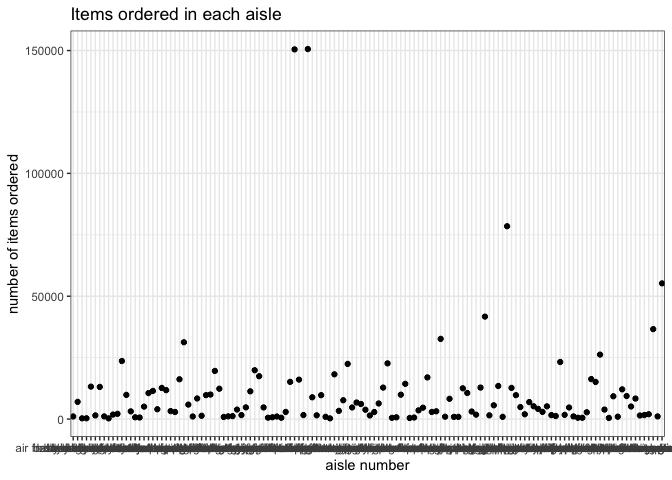
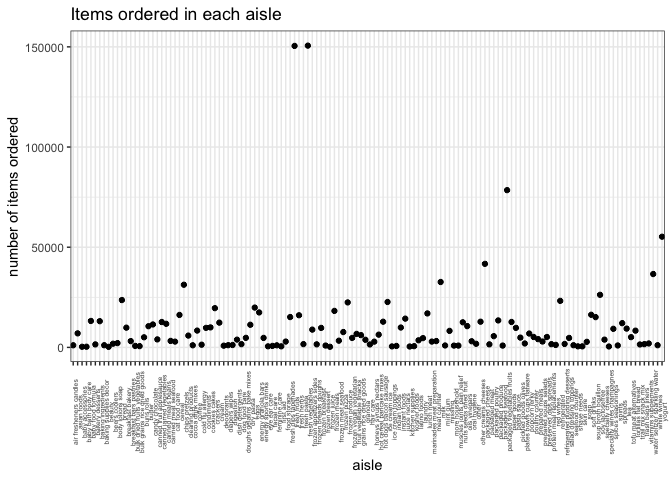
I added descriptions of all my plots and what I see in the results.

diff --git a/p8105_hw3_ak4123.md b/p8105_hw3_ak4123.md
@@ -65,7 +65,10 @@ brfss_data %>%
   guides(color = guide_legend(nrow = 6))
 ```
 
-![](p8105_hw3_ak4123_files/figure-markdown_github/unnamed-chunk-1-1.png) \#\#Part C: Here, I make a table showing, for the years 2002, 2006, and 2010, the mean and standard deviation of the proportion of “Excellent” responses across locations in NY State.
+![](p8105_hw3_ak4123_files/figure-markdown_github/unnamed-chunk-1-1.png) As we can see from this line plot, most states stay fairly the same in terms of the number of observations, but there are a few that have some peaks. Because there are so many states, it is hard to really distinguish the colors from one another, but there is one state that appears to have a large increase in 2007 and again in 2010. Most of the states remain under 10 observations.
+
+Part C: Here, I make a table showing, for the years 2002, 2006, and 2010, the mean and standard deviation of the proportion of “Excellent” responses across locations in NY State.
+----------------------------------------------------------------------------------------------------------------------------------------------------------------------------------
 
 ``` r
 brfss_data %>%
@@ -78,11 +81,12 @@ brfss_data %>%
   knitr::kable()
 ```
 
-|  year|  mean\_proportion\_excellent|  sd\_proportion\_excellent|
-|-----:|----------------------------:|--------------------------:|
-|  2002|                     24.04000|                   4.486424|
-|  2006|                     22.53333|                   4.000833|
-|  2010|                     22.70000|                   3.567212|
+|     year|   mean\_proportion\_excellent|                                                                                           sd\_proportion\_excellent|
+|--------:|-----------------------------:|-------------------------------------------------------------------------------------------------------------------:|
+|     2002|                      24.04000|                                                                                                            4.486424|
+|     2006|                      22.53333|                                                                                                            4.000833|
+|     2010|                      22.70000|                                                                                                            3.567212|
+|  From th|  is table, we can see that th|  e mean decreases from 2002 to 2006, and remains the same to 2010. The standard deviations remain roughly the same.|
 
 Part D: For each year and state, I compute the average proportion in each response category (taking the average across locations in a state). Then, I make a five-panel plot that shows, for each response category separately, the distribution of these state-level averages over time.
 -----------------------------------------------------------------------------------------------------------------------------------------------------------------------------------------------------------------------------------------------------------------------------------------
@@ -106,7 +110,13 @@ brfss_data %>%
 
     ## Warning: Removed 21 rows containing non-finite values (stat_boxplot).
 
-![](p8105_hw3_ak4123_files/figure-markdown_github/unnamed-chunk-3-1.png) \#Question 2 \#\#Data Cleaning of the instacart dataset.
+![](p8105_hw3_ak4123_files/figure-markdown_github/unnamed-chunk-3-1.png) From these box plots, we can see that over time, the mean proportion of responses remain roughly the same. There is a higher proportion for very good responses and good responses, followed by excellent propotions. There is very few fair responses and even less poor responses. Also, the poor responses have very little variation, with many outliers compared to the other response groups.
+
+Question 2
+==========
+
+Data Cleaning of the instacart dataset.
+---------------------------------------
 
 ``` r
 library(p8105.datasets)
@@ -124,7 +134,7 @@ The dimensions of this dataset are (1384617, 15). This means there are 1384617 o
 "department\_id" "aisle"
 "department"
 
-An example of an observation would be for the user id 112108, a product they ordered was Bulgarian Yogurt. This product comes from the dairy eggs.
+An example of an observation would be for the user id 112108, a product they ordered was Bulgarian Yogurt. This product comes from the dairy eggs department.
 
 Part A
 ------
@@ -132,23 +142,18 @@ Part A
 ``` r
 instacart %>% 
 group_by(aisle) %>% 
-  count(order_id) %>% 
+  count(aisle_id) %>% 
 arrange(desc(n)) %>% 
-  head(7) %>% 
+  head(2) %>% 
   knitr::kable()
 ```
 
-| aisle               |  order\_id|    n|
-|:--------------------|----------:|----:|
-| baby food formula   |    2188545|   28|
-| energy granola bars |    1385776|   28|
-| tea                 |    2445873|   27|
-| yogurt              |    2606705|   26|
-| cat food care       |    3363902|   24|
-| energy granola bars |    2397010|   24|
-| baby food formula   |    2070470|   23|
+| aisle            |  aisle\_id|       n|
+|:-----------------|----------:|-------:|
+| fresh vegetables |         83|  150609|
+| fresh fruits     |         24|  150473|
 
-There are 134 aisles. The aisles with the most orders are baby food formula and energy granola bars, each with 28 orders.
+There are 134 aisles. The aisles with the most orders the fresh vegtables and fresh fruits aisles, each with over 150,000 orders.
 
 Part B: Here, I make a plot that shows the number of items ordered in each aisle.
 ---------------------------------------------------------------------------------
@@ -156,17 +161,22 @@ Part B: Here, I make a plot that shows the number of items ordered in each aisle
 ``` r
 instacart %>% 
   group_by(aisle) %>% 
-  summarize(amount_ordered = n()) %>% 
-  ggplot(aes(x = aisle, y = amount_ordered)) + 
+  summarize(ordered_amount = n()) %>% 
+  ggplot(aes(x = aisle, y = ordered_amount)) + 
   geom_point() +
   labs(
      title = "Items ordered in each aisle",
-     x = "aisle number",
+     x = "aisle",
      y = "number of items ordered"
-    ) + theme_bw()
+    ) +
+    theme_bw() +
+    theme(axis.text.x = element_text(angle = 90, size = 5))
 ```
 
-![](p8105_hw3_ak4123_files/figure-markdown_github/question%202%20plots-1.png) \#\#Part C: I make a table showing the most popular item in each of the aisles: “baking ingredients”, “dog food care”, and “packaged vegetables fruits”.
+![](p8105_hw3_ak4123_files/figure-markdown_github/question%202%20plots-1.png) From this plot, we see the number of items ordered from each aisle. There are 2 major outliers in the 150,000 count, which matches our information from the table above, as this is the fresh vegetables and fresh fruits aisles.
+
+Part C: I make a table showing the most popular item in each of the aisles: “baking ingredients”, “dog food care”, and “packaged vegetables fruits”.
+----------------------------------------------------------------------------------------------------------------------------------------------------
 
 ``` r
 instacart %>% 
@@ -178,16 +188,18 @@ arrange(desc(most_ordered)) %>%
 group_by(aisle) %>% 
   top_n( n = 1, wt = most_ordered) %>% 
   select(aisle, product_name, most_ordered) %>% 
-  rename(top_product_name = product_name) %>% 
+  rename(top_product_name = product_name) %>%
+  rename(number_of_orders = most_ordered) %>% 
   arrange(aisle) %>% 
   knitr::kable()
 ```
 
-| aisle                      | top\_product\_name                            |  most\_ordered|
-|:---------------------------|:----------------------------------------------|--------------:|
-| baking ingredients         | Light Brown Sugar                             |            499|
-| dog food care              | Snack Sticks Chicken & Rice Recipe Dog Treats |             30|
-| packaged vegetables fruits | Organic Baby Spinach                          |           9784|
+| aisle                         | top\_product\_name                               |                                                                                                                                                                                                                                                                                 number\_of\_orders|
+|:------------------------------|:-------------------------------------------------|--------------------------------------------------------------------------------------------------------------------------------------------------------------------------------------------------------------------------------------------------------------------------------------------------:|
+| baking ingredients            | Light Brown Sugar                                |                                                                                                                                                                                                                                                                                                499|
+| dog food care                 | Snack Sticks Chicken & Rice Recipe Dog Treats    |                                                                                                                                                                                                                                                                                                 30|
+| packaged vegetables fruits    | Organic Baby Spinach                             |                                                                                                                                                                                                                                                                                               9784|
+| In the baking ingredients ais | le, light brown sugar was the most ordered item, |  and was ordered 499 times. IN the dog food care aisle, the snack sticks chicken and rice receipe dog treats were the most orderd, as they were ordered 30 times. Lastly, in the packaged vegetables fruits aisle, the organic baby spinach was the most ordered item, and was ordered 9784 times.|
 
 Part D: I make a table showing the mean hour of the day at which Pink Lady Apples and Coffee Ice Cream are ordered on each day of the week.
 -------------------------------------------------------------------------------------------------------------------------------------------
@@ -202,19 +214,29 @@ instacart %>%
   knitr::kable()
 ```
 
-| product\_name         |             0|         1|         2|         3|         4|         5|         6|
-|:----------------------|-------------:|---------:|---------:|---------:|---------:|---------:|---------:|
-| Coffee Ice Cream      |      13.77419|  14.31579|  15.38095|  15.31818|  15.21739|  12.26316|  13.83333|
-| Pink Lady Apples      |      13.44118|  11.36000|  11.70213|  14.25000|  11.55172|  12.78431|  11.93750|
-| \#Question 3          |              |          |          |          |          |          |          |
-| \#\#I load the data f |  rom NY\_NOAA|          |          |          |          |          |          |
+| product\_name      |            0|            1|            2|            3|            4|           5|                                                                                                6|
+|:-------------------|------------:|------------:|------------:|------------:|------------:|-----------:|------------------------------------------------------------------------------------------------:|
+| Coffee Ice Cream   |     13.77419|     14.31579|     15.38095|     15.31818|     15.21739|    12.26316|                                                                                         13.83333|
+| Pink Lady Apples   |     13.44118|     11.36000|     11.70213|     14.25000|     11.55172|    12.78431|                                                                                         11.93750|
+| The times at which |  Pink Lady A|  pples and C|  offee Ice C|  ream are or|  dered can b|  e compared|  in this table. Pink Lady Apples are ordered earlier in the day than Coffee Ice Cream typically.|
+
+Question 3
+==========
+
+I load the data from NY\_NOAA
+-----------------------------
 
 ``` r
 library(p8105.datasets)
 data("ny_noaa") 
 ```
 
-The dimensions of this dataset are (2595176, 7). This means there are 2595176 observations (rows) and 7 variables (columns). Some of the key variables include "id" "date" "prcp" "snow" "snwd" "tmax" "tmin" MISSING DATA IS AN ISSUE BC ... \#\#I clean the data from NY\_NOAA and create separate variables for year, month, and day.
+The dimensions of this dataset are (2595176, 7). This means there are 2595176 observations (rows) and 7 variables (columns). The information in this table is information about precipitation, temperature, and snow in New York, obtained from weather stations. Each observation is a specific weather station, on a specific date. The variables included are: "id" "date" "prcp" "snow" "snwd" "tmax" "tmin". The id is a idnetificatoin number given to each of the weather stations (there are 5 in total). For example, US1NYAB0001 is an ID. Then there is thee date the observation is referring to, it has the day, month and year. The prcp variable is the amount of precipitation in tenths of a millimeter, while tmax and tmin are the maximum and minimum temperatures in tenths of a degree (Celsius). There is also measurements of snow, which it is important to note does not occur year-round.
+
+Missing values is an issue within this dataset. There are 1372743 observations where at least one piece of weather information is missing. Thus, around 50% of observations in this dataset have missing weather information.
+
+I clean the data from NY\_NOAA and create separate variables for year, month, and day.
+--------------------------------------------------------------------------------------
 
 ``` r
 c_ny_noaa = ny_noaa %>% 
@@ -293,4 +315,4 @@ ggpubr::ggarrange(temp_plot, snowfall_plot,
   ncol = 1, nrow = 2)
 ```
 
-![](p8105_hw3_ak4123_files/figure-markdown_github/Q3:%20last%20plot-1.png)
+![](p8105_hw3_ak4123_files/figure-markdown_github/Q3:%20last%20plot-1.png) The first plot shows a comparison of the maximum and minimum temperatures. There is a trend in that as the maximum temperature increases, the minimum temperature also tends to increase. The second plot shows the yearly distribution of snowfall has stayed constant, with very few outliers.
